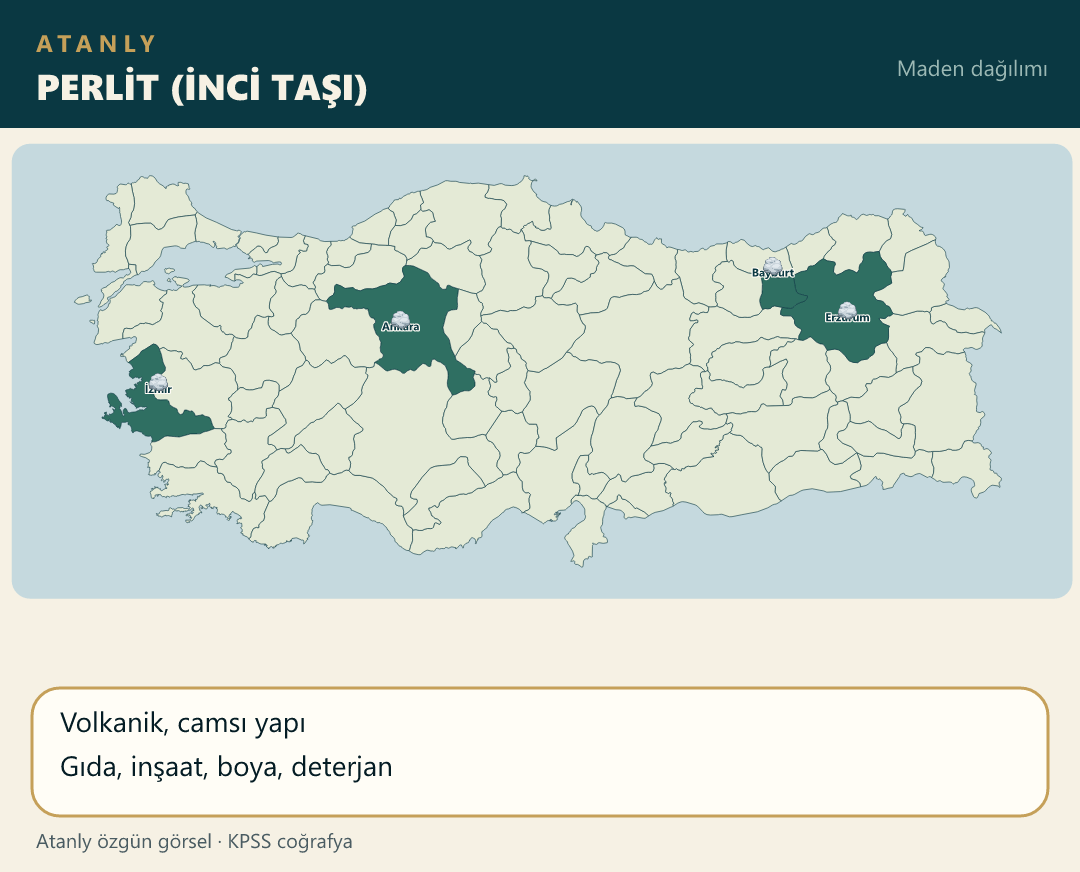
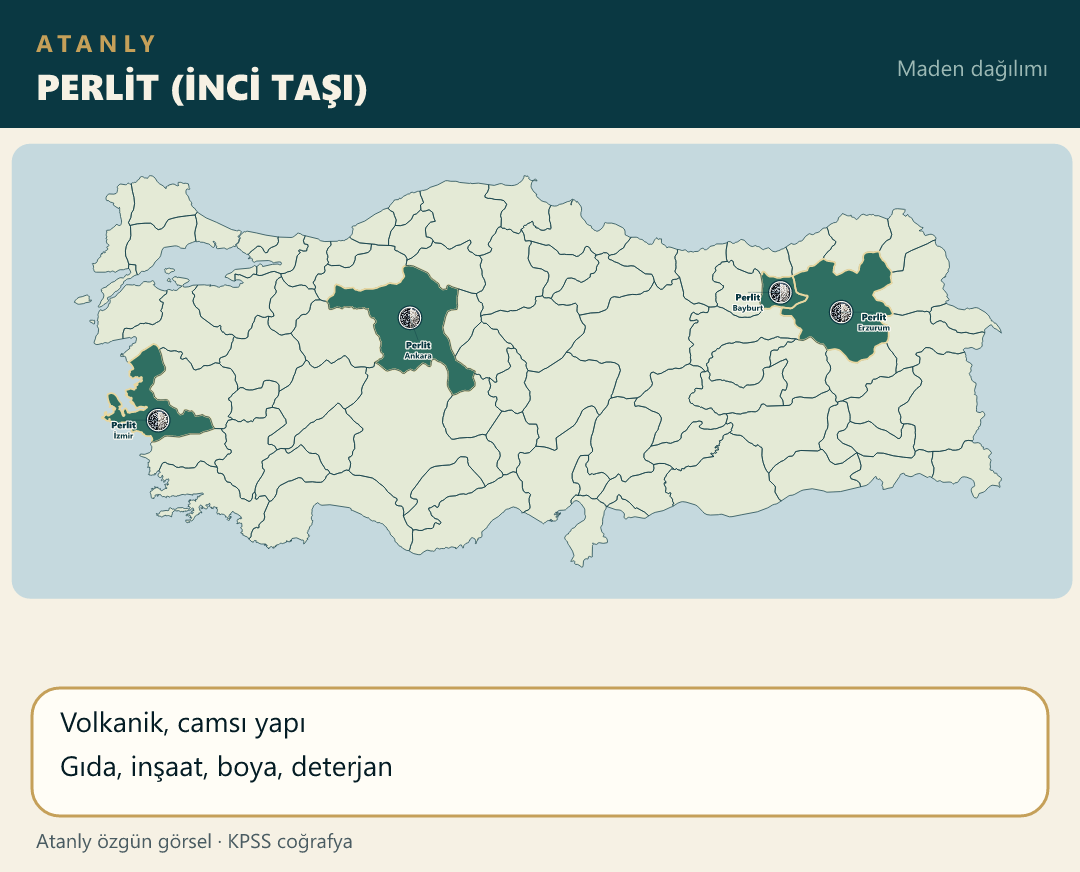
Place the perlite photo on Izmir, Ankara, Bayburt, and Erzurum land-center pins.

diff --git a/scripts/build-atanly-maps.js b/scripts/build-atanly-maps.js
@@ -486,7 +486,7 @@ function topicIcon(file) {
         madenkrom: "chrome", madenbarit: "barite", madenbor: "boron", madenmermer: "marble",
         madenfosfat: "phosphate", madenasbest: "asbestos", madentrona: "salt", madenaltin: "gold",
         madenuranyum: "uranium", madentoryum: "uranium", madenciva: "mercury", madentuz: "salt",
-        madenperlit: "rock", madenpomza: "rock", madenkukurt: "sulfur", madenmanganez: "manganese",
+        madenperlit: "perlite", madenpomza: "rock", madenkukurt: "sulfur", madenmanganez: "manganese",
         madenkursun: "lead", madenoltu: "jet", madenlule: "lule", madenvolfram: "tungsten",
         madenfeldspat: "feldspar", madenzimpara: "emery", madenetiket: "ore"
     };
@@ -1075,7 +1075,13 @@ function main() {
         { file: "maden_tuz.png", title: "TUZ", iller: ["Çankırı", "Iğdır", "Kars", "Aksaray", "Konya", "Ankara", "İzmir"],
             yazilar: ["Çankırı", "Iğdır", "Kars", "Tuz Gölü", "Tuz Gölü", "Tuz Gölü", "Çamaltı"],
             facts: ["Kaya tuzu: Çankırı, Iğdır, Kars", "Göl tuzu: Tuz Gölü (Aksaray–Konya–Ankara)", "Deniz tuzu: Çamaltı"] },
-        { file: "maden_perlit.png", title: "PERLİT (İNCİ TAŞI)", iller: ["İzmir", "Ankara", "Bayburt", "Erzurum"],
+        { file: "maden_perlit.png", title: "PERLİT (İNCİ TAŞI)", urun: "Perlit",
+            noktalar: [
+                { il: "İzmir", ldx: -34, ldy: 8 },
+                { il: "Ankara", ldx: 8, ldy: 30 },
+                { il: "Bayburt", ldx: -32, ldy: 8 },
+                { il: "Erzurum", ldx: 32, ldy: 8 }
+            ],
             facts: ["Volkanik, camsı yapı", "Gıda, inşaat, boya, deterjan"] },
         { file: "maden_pomza.png", title: "POMZA TAŞI", iller: ["Nevşehir", "Kayseri"],
             facts: ["Tarım ve inşaat", "Kapadokya volkanizması"] },

diff --git a/notlar/cografya-21-not.js b/notlar/cografya-21-not.js
@@ -2,7 +2,7 @@
 (function () {
     function harita(src, alt) {
         return '<div class="mt-4 overflow-hidden rounded-xl border border-blue-200 dark:border-blue-700/50 bg-white dark:bg-slate-800 p-2">' +
-            '<img src="./src/img/' + src + '?v=31" alt="' + alt + ' Haritası" class="w-full h-auto rounded-lg object-contain" loading="lazy">' +
+            '<img src="./src/img/' + src + '?v=32" alt="' + alt + ' Haritası" class="w-full h-auto rounded-lg object-contain" loading="lazy">' +
             "</div>";
     }
 

diff --git a/index.html b/index.html
@@ -119,7 +119,7 @@
     <script src="notlar/cografya-18-not.js?v=17"></script>
     <script src="notlar/cografya-19-not.js?v=25"></script>
     <script src="notlar/cografya-20-not.js?v=1"></script>
-    <script src="notlar/cografya-21-not.js?v=24"></script>
+    <script src="notlar/cografya-21-not.js?v=25"></script>
     <script src="notlar/cografya-22-not.js?v=1"></script>
     <script src="notlar/cografya-23-not.js?v=1"></script>
     <script src="notlar/cografya-24-not.js?v=1"></script>
